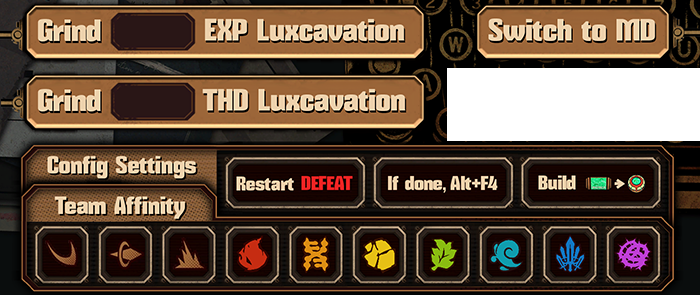
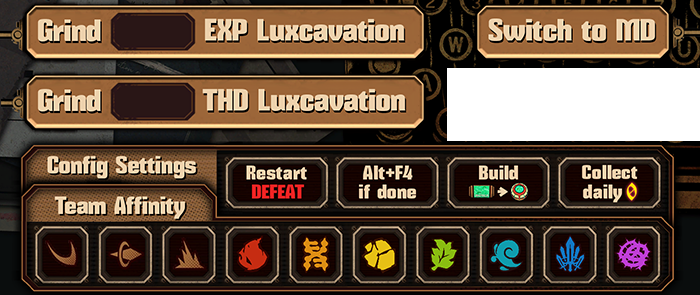
v3.0.1

Changed region(s): [[0.33, 0.5186, 0.93, 0.7322]]

diff --git a/source/battle.py b/source/battle.py
@@ -44,7 +44,7 @@ def get_lowskill():
             x += int(0.206*x - 224)
         if any(abs(x - px) <= 20 for px in coords_x): continue
         coords_x.append(int(x))
-    return coords_x
+    return sorted(coords_x)
 
 def ego_click(best_ego):
     gui.mouseDown()
@@ -74,8 +74,14 @@ def ego_click(best_ego):
         win_click(1888, 901)
     time.sleep(0.2)
 
+
+def check_selection(button="winrate_on", st_clicks=3):
+    gui.press("p", st_clicks, 0.5)
+    time.sleep(0.5)
+    wait_for_condition(lambda: not loc.button(button, "winrate", wait=0.5, method=cv2.TM_SQDIFF_NORMED), lambda: gui.press("p"))
+
 def select_ego():
-    time.sleep(0.8)
+    loc.button("winrate_on", "winrate", wait=1, method=cv2.TM_SQDIFF_NORMED)
     coords_x = get_lowskill()
     if not coords_x: return
 
@@ -83,8 +89,7 @@ def select_ego():
     for x in coords_x: 
         win_moveTo(x, 990)
         ego_click(best1)
-    gui.press("p", 3, 0.3)
-    time.sleep(0.8)
+    check_selection()
     coords_x = get_lowskill()
     if len(coords_x) < 3: 
         # zayin kinda worked
@@ -95,8 +100,7 @@ def select_ego():
         win_click(x, 990, clicks=2, duration=0.1)
         time.sleep(0.1)
         ego_click(best2)
-    gui.press("p", 3, 0.3)
-    time.sleep(0.8)
+    check_selection()
     coords_x = get_lowskill()
     if len(coords_x) < 3: 
         # we winrate with this
@@ -104,8 +108,7 @@ def select_ego():
         return
     
     # even that didn't work, so let's go for damage
-    gui.press("p", 1, 0.3)
-    time.sleep(0.8)
+    check_selection("damage_on", st_clicks=1)
     coords_x = get_lowskill()
     for x in coords_x: win_click(x, 990, duration=0.1)
 
@@ -361,7 +364,9 @@ def fight(lux=False):
                     Action("Confirm_retry", ver="loading").execute(click)
                     loading_halt()
                     logging.info("Run stopped")
-                    raise StopIteration("Dante, we failed... If you want to end run here, enable 'End stuck runs'")
+                    err = StopIteration("Dante, we failed... If you want to end run here, enable 'End stuck runs'")
+                    if p.ALTF4: close_limbus(error=err)
+                    raise err
                 else:
                     wait_for_condition(lambda: not now.button("Confirm_retry", method=cv2.TM_SQDIFF_NORMED), lambda: win_click(1200, 670), interval=1, timer=3)
                     Action("Confirm_retry", ver="loading").execute(click)

diff --git a/source/shop.py b/source/shop.py
@@ -682,9 +682,10 @@ def buy_some(rerolls=1, priority=False):
     time.sleep(0.2)
     iterations = rerolls + 1
     keywordless = [{"buy": [name for name, state in p.KEYWORDLESS.items() if state > 1], "sin": True}]
+    sold_all = False
     for _ in range(iterations):
-        if not priority and balance() < 200:
-            sell({"all": 300})
+        if not priority and not sold_all and balance() < 200:
+            sold_all = not sell({"all": 300})
         if p.EXTREME:
             for _ in range(1 + int(p.SUPER == "supershop")):
                 buy_skill3()
@@ -702,6 +703,7 @@ def buy_some(rerolls=1, priority=False):
             win_click(1489, 177)
             connection()
             time.sleep(0.1)
+        elif balance() < 120: return
 
 def buy(missing):
     output = False
@@ -803,10 +805,12 @@ def heal_all():
     if balance() < 100: return
 
     ClickAction((293, 705), ver="return").execute(click)
-    ClickAction((1545, 500), ver="connecting").execute(click)
-    time.sleep(1)
-    Action("return", ver=p.SUPER).execute(click)
-    time.sleep(0.2)
+    try:
+        ClickAction((1545, 500), ver="connecting").execute(click)
+        time.sleep(1)
+    finally:
+        Action("return", ver=p.SUPER).execute(click)
+        time.sleep(0.2)
 
 ### General
 def leave():
@@ -817,6 +821,8 @@ def leave():
 
 
 def shop():
+    if now_click.button("return"): time.sleep(0.5)
+
     if now.button("shop"): p.SUPER = "shop"
     elif not p.HARD or not now.button("supershop"): return False
     else: p.SUPER = "supershop"

diff --git a/App.py b/App.py
@@ -469,12 +469,12 @@ class MyApp(QWidget):
             }) for i in range(7)
         ] + [
             (f'on{i+7}', {
-                'geometry': (223 + 148*i, 155, 144, 56),
+                'geometry': (223 + 111*i, 155, 107, 56),
                 'checkable': True,
-                'checked': i % 2 == 0,
+                'checked': i != 1,
                 'click_handler': self.update_button_icons,
                 'icon': Bot.APP_PTH['sel_lux']
-            }) for i in range(3)
+            }) for i in range(4)
         ]
     
     def _get_buff(self):
@@ -1283,7 +1283,7 @@ class MyApp(QWidget):
 
         self.settings = {
             'log'        : self.buttons['log'].isChecked(),
-            'bonus'      : self.buttons['on0'].isChecked(),
+            'bonus'      : self.buttons['on0'].isChecked() if not self.is_lux else self.buttons['on10'].isChecked(),
             'restart'    : self.buttons['on1'].isChecked() if not self.is_lux else self.buttons['on7'].isChecked(),
             'altf4'      : self.buttons['on2'].isChecked() if not self.is_lux else self.buttons['on8'].isChecked(),
             'enkephalin' : self.buttons['on3'].isChecked() if not self.is_lux else self.buttons['on9'].isChecked(),

diff --git a/source/lux.py b/source/lux.py
@@ -115,4 +115,21 @@ def grind_lux(count_exp, count_thd, teams):
     wait_for_condition(lambda: not now.button("Exp"))
     time.sleep(1)
     gui.press("Esc")
+    if p.BONUS: collect_dailies()
     logging.info("Done with Luxcavation!")
+
+
+def collect_dailies():
+    Action("Window", ver="Settings").execute(click)
+    ClickAction((1621, 352), ver="PassMissions").execute(click)
+    Action("PassMissions", ver="Daily").execute(click)
+    wait_for_condition( 
+        lambda: 0 < len(LocateRGB.locate_all(PTH["collect"], region=REG["collect"], threshold=50)),
+        click_collect
+    )
+    gui.press("Esc")
+
+def click_collect():
+    now_click.button("collect")
+    connection()
+    time.sleep(1)

diff --git a/source/utils/paths.py b/source/utils/paths.py
@@ -153,6 +153,11 @@ REG = {
     # lux.py
     "Lux"            : ( 523,  145,  301,  212),
     "Exp"            : (  68,  319,  289,  135),
+    "Window"         : ( 927,  896,  156,  139),
+    "Settings"       : (1726,  116,  150,  150),
+    "PassMissions"   : ( 459,   57,  198,   56),
+    "Daily"          : ( 372,  328,   70,  115),
+    "collect"        : ( 974,  266,   80,  600),
     # regions not binded to an image
     "pick!"          : ( 417,  667, 1428,   95),
     "thd!"           : (1152,  324,  163,  462),

diff --git a/source/move.py b/source/move.py
@@ -200,12 +200,15 @@ def enter(wait=1):
 
 def move():
     enter(wait=False)
+    is_move = now.button("Move")
 
-    if now.button("Move") and p.MOVE_ANIMATION:
+    if is_move and p.MOVE_ANIMATION:
         wait_for_condition(condition=lambda: now.button("Move"), interval=0.1)
         p.MOVE_ANIMATION = False
+        is_move = loc.button("Move", wait=2)
+        time.sleep(0.5)
     
-    if not now.button("Move") or \
+    if not is_move or \
            now.button("Confirm"): return False
     
     if p.HARD:

diff --git a/source/utils/utils.py b/source/utils/utils.py
@@ -148,11 +148,13 @@ def pause():
     logging.info("Execution resumed")
 
 
-def close_limbus():
+def close_limbus(error=None):
     if gui.getActiveWindowTitle() == p.LIMBUS_NAME:
         gui.hotkey('alt', 'f4')
     if p.APP: QMetaObject.invokeMethod(p.APP, "stop_execution", Qt.ConnectionType.QueuedConnection)
-    raise StopExecution()
+    if error is None:
+        raise StopExecution
+    else: raise error
 
 
 def wait_for_condition(condition, action=None, interval=0.5, timer=20):

diff --git a/source/pack.py b/source/pack.py
@@ -194,7 +194,7 @@ def pack():
             win_moveTo(1721, 999)
             time.sleep(2)
     
-    if p.LVL != 1:
-        p.MOVE_ANIMATION = True
     wait_for_condition(lambda: now.button("PackChoice"), interval=0.1)
+    if p.LVL != 1: p.MOVE_ANIMATION = True
+    else: time.sleep(0.5)
     return True

diff --git a/source/utils/params.py b/source/utils/params.py
@@ -1,6 +1,6 @@
 import threading
 
-V = "3.0.0"
+V = "3.0.1"
 LIMBUS_NAME = "LimbusCompany"
 
 SELECTED = ["YISANG", "DONQUIXOTE" , "ISHMAEL", "RODION", "SINCLAIR", "GREGOR"]
